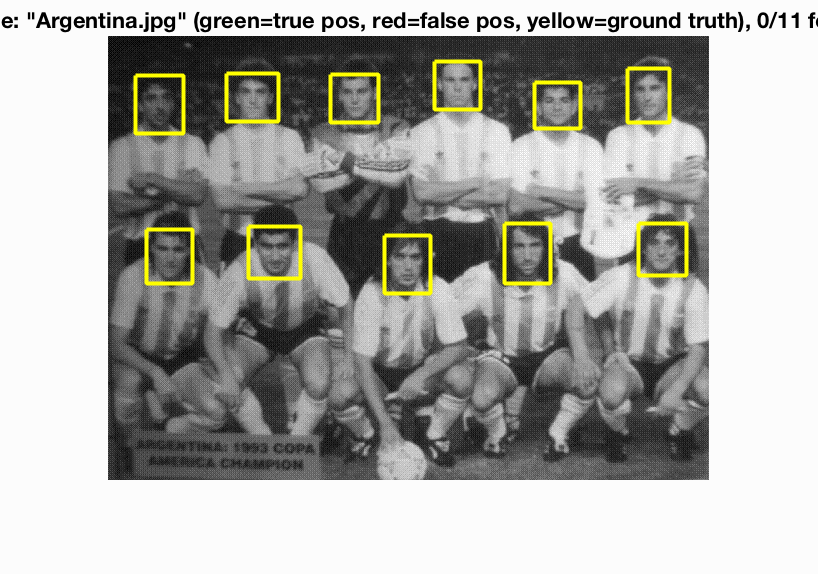
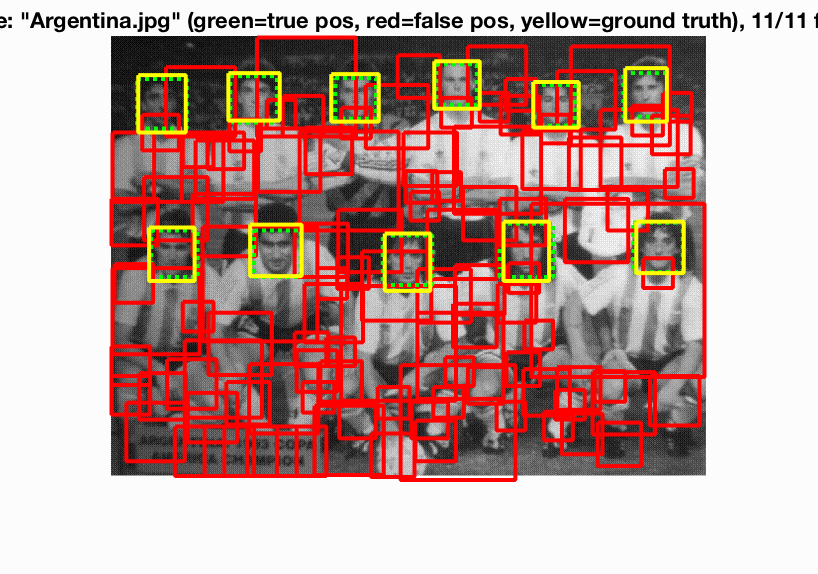
final

diff --git a/get_positive_features.m b/get_positive_features.m
@@ -39,15 +39,13 @@ for i=1:num_images
     end
     gray_image_o=single(imread([image_files(i).folder '/' image_files(i).name]))/255;
     for j = 1:aug_num
-        if (mod(j,2)==1)
-            gray_image = fliplr(gray_image_o);
-        else
-            gray_image = gray_image_o;
-        end
-        gray_image = imresize(gray_image, (1+rand(1)*0.2), 'bicubic');
+        gray_image = imresize(gray_image_o, (1+rand(1)*0.1), 'bicubic');
         row_start = randi(length(gray_image(:,1))-feature_params.template_size);
         col_start = randi(length(gray_image(1,:))-feature_params.template_size);
         gray_image = gray_image(row_start:row_start+feature_params.template_size,col_start:col_start+feature_params.template_size);
+        if (mod(j,2)==1)
+            gray_image = fliplr(gray_image);
+        end
         features_pos((i-1)*aug_num+j,:) = reshape(vl_hog(gray_image,feature_params.hog_cell_size),1,[]);
     end
 end

diff --git a/proj4.m b/proj4.m
@@ -63,7 +63,7 @@ features_pos = get_positive_features( train_path_pos, feature_params );
 disp('pos finish');
 
 disp('begin neg');
-num_negative_examples = 50000; %Higher will work strictly better, but you should start with 10000 for debugging
+num_negative_examples = 60000; %Higher will work strictly better, but you should start with 10000 for debugging
 features_neg = get_random_negative_features( non_face_scn_path, feature_params, num_negative_examples);
 disp('neg finish');
 

diff --git a/run_detector.m b/run_detector.m
@@ -47,9 +47,9 @@ confidences = zeros(0,1);
 image_ids = cell(0,1);
 num_test_scenes = length(test_scenes);
 
-for i = 1:num_test_scenes
+parfor i = 1:num_test_scenes
       
-    fprintf('Detecting faces in %s, %d/%d\n', test_scenes(i).name, i, num_test_scenes)
+    %fprintf('Detecting faces in %s, %d/%d\n', test_scenes(i).name, i, num_test_scenes)
     img = imread( fullfile( test_scn_path, test_scenes(i).name ));
     img = single(img)/255;
     if(size(img,3) > 1)

diff --git a/non_max_supr_bbox.m b/non_max_supr_bbox.m
@@ -94,6 +94,6 @@ reverse_map(ind) = 1:num_detections;
 is_valid_bbox = is_valid_bbox(reverse_map);
 
 
-fprintf(' non-max suppression: %d detections to %d final bounding boxes\n', num_detections, sum(is_valid_bbox));
+%fprintf(' non-max suppression: %d detections to %d final bounding boxes\n', num_detections, sum(is_valid_bbox));
 
 
